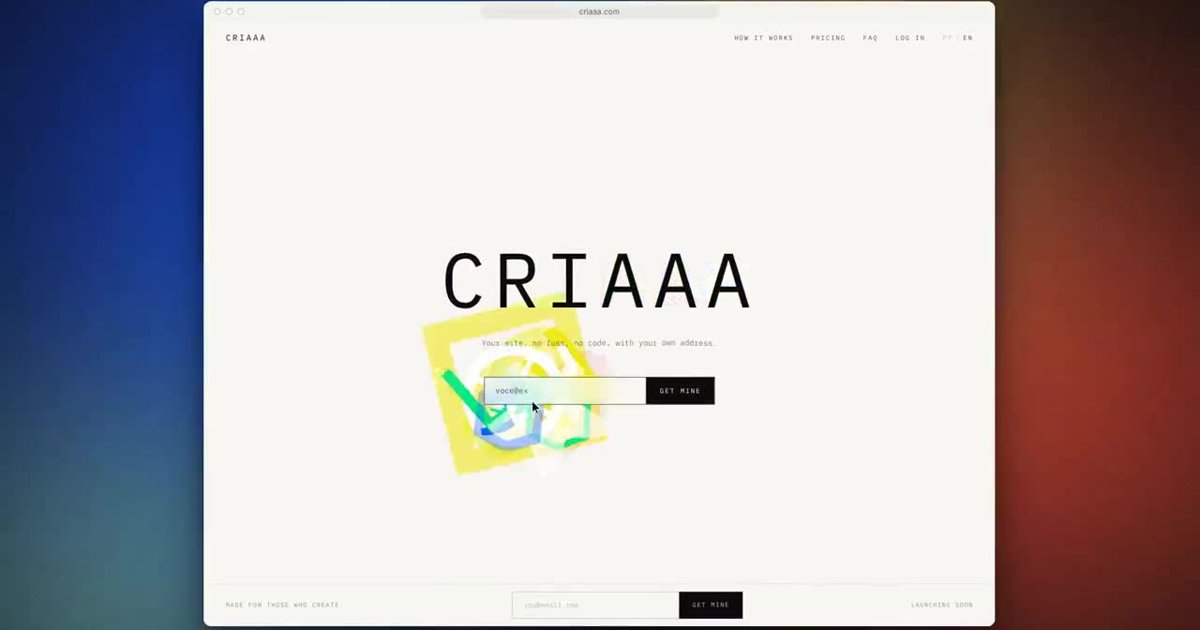
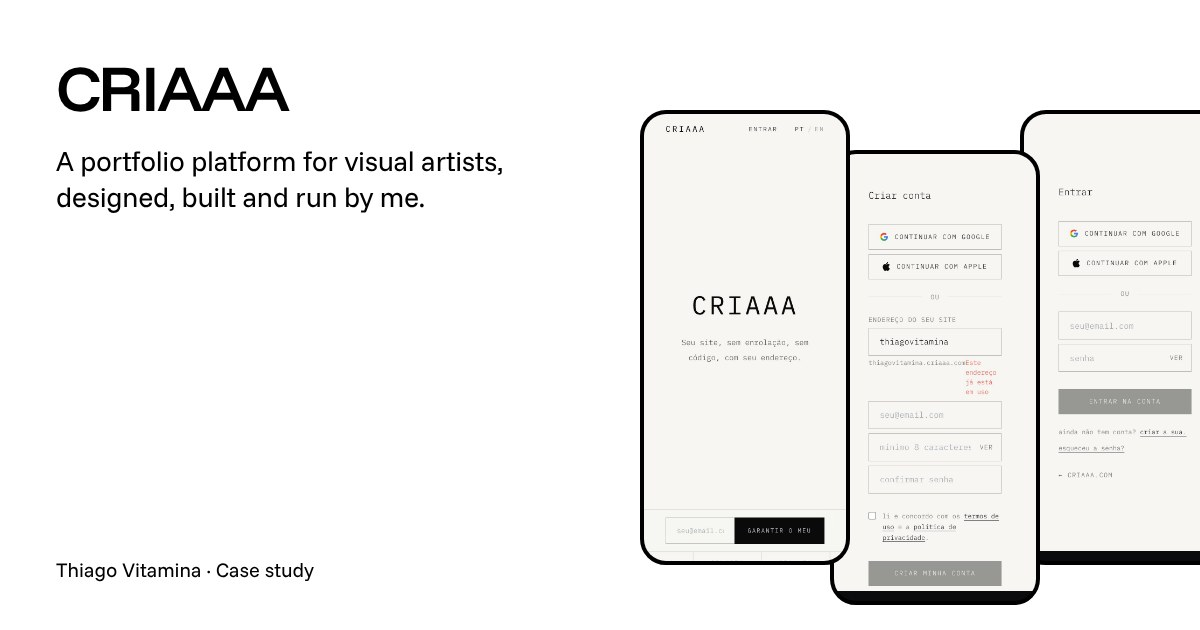
Home: SafraPay out for now (four cases); share images for MIR, SoundCloud for Artists and CRIAAA in the Trade-In layout
Claude-Session: https://claude.ai/code/session_01FyrvPSJDa7JmKu47VWZsMj

diff --git a/index.html b/index.html
@@ -77,7 +77,7 @@
 <div class="sheet light" id="sheet-work">
 
 <section class="wrap" id="work" aria-labelledby="work-h">
-  <div class="head"><h2 class="sec-title" id="work-h">Selected work</h2><p class="sec-intro">Five products from the last few years, from a bank’s first card machine to a platform of my own. Different teams, same way of working: understand first, then design.</p></div>
+  <div class="head"><h2 class="sec-title" id="work-h">Selected work</h2><p class="sec-intro">Four products from the last few years, from a trade-in portal to a platform of my own. Different teams, same way of working: understand first, then design.</p></div>
 
   <article class="case split">
     <div class="media"><video muted loop playsinline preload="none" poster="v/tradein169.jpg" data-src="v/tradein169.mp4" aria-label="Screen recording of the Allstate Trade-In flow, shown on a desktop browser and a phone side by side."></video></div>
@@ -124,19 +124,6 @@
       <dl class="facts"><dt>Year</dt><dd>2026</dd><dt>Role</dt><dd>Founder, designer, builder</dd></dl>
       <p class="after"><strong>After launch.</strong> Live at criaaa.com, in pilot with FMU.</p>
       <a class="btn-ink" href="criaaa.html"><span>Read the case</span><span class="arw" aria-hidden="true"></span></a>
-    </div>
-  </article>
-
-
-  <article class="case split">
-    <div class="media empty" aria-hidden="true" data-ghost="SafraPay"></div>
-    <div class="copy">
-      <h3>SafraPay</h3>
-      <p class="what">Banco Safra’s entry into card machines started with no product and no brand language. I led design at Ogilvy and designed hands-on.</p>
-      <p class="more">The sign-up portal, the machine screens and the system behind them, kept premium on purpose. Its fee calculator turned a price list into something shop owners could test for themselves.</p>
-      <dl class="facts"><dt>Client</dt><dd>Banco Safra, at Ogilvy</dd><dt>Year</dt><dd>2018–2019</dd><dt>Role</dt><dd>Head of design</dd></dl>
-      <p class="after"><strong>After launch.</strong> Other players in the market later adopted the same calculator.</p>
-      <span class="soon">Case study soon</span>
     </div>
   </article>
 </section>

diff --git a/source/index.html b/source/index.html
@@ -68,7 +68,7 @@
 <div class="sheet light" id="sheet-work">
 
 <section class="wrap" id="work" aria-labelledby="work-h">
-  <div class="head"><h2 class="sec-title" id="work-h">Selected work</h2><p class="sec-intro">Five products from the last few years, from a bank’s first card machine to a platform of my own. Different teams, same way of working: understand first, then design.</p></div>
+  <div class="head"><h2 class="sec-title" id="work-h">Selected work</h2><p class="sec-intro">Four products from the last few years, from a trade-in portal to a platform of my own. Different teams, same way of working: understand first, then design.</p></div>
 
   <article class="case split">
     <div class="media"><video muted loop playsinline preload="none" poster="v/tradein169.jpg" data-src="v/tradein169.mp4" aria-label="Screen recording of the Allstate Trade-In flow, shown on a desktop browser and a phone side by side."></video></div>
@@ -115,19 +115,6 @@
       <dl class="facts"><dt>Year</dt><dd>2026</dd><dt>Role</dt><dd>Founder, designer, builder</dd></dl>
       <p class="after"><strong>After launch.</strong> Live at criaaa.com, in pilot with FMU.</p>
       <a class="btn-ink" href="criaaa.html"><span>Read the case</span><span class="arw" aria-hidden="true"></span></a>
-    </div>
-  </article>
-
-
-  <article class="case split">
-    <div class="media empty" aria-hidden="true" data-ghost="SafraPay"></div>
-    <div class="copy">
-      <h3>SafraPay</h3>
-      <p class="what">Banco Safra’s entry into card machines started with no product and no brand language. I led design at Ogilvy and designed hands-on.</p>
-      <p class="more">The sign-up portal, the machine screens and the system behind them, kept premium on purpose. Its fee calculator turned a price list into something shop owners could test for themselves.</p>
-      <dl class="facts"><dt>Client</dt><dd>Banco Safra, at Ogilvy</dd><dt>Year</dt><dd>2018–2019</dd><dt>Role</dt><dd>Head of design</dd></dl>
-      <p class="after"><strong>After launch.</strong> Other players in the market later adopted the same calculator.</p>
-      <span class="soon">Case study soon</span>
     </div>
   </article>
 </section>
